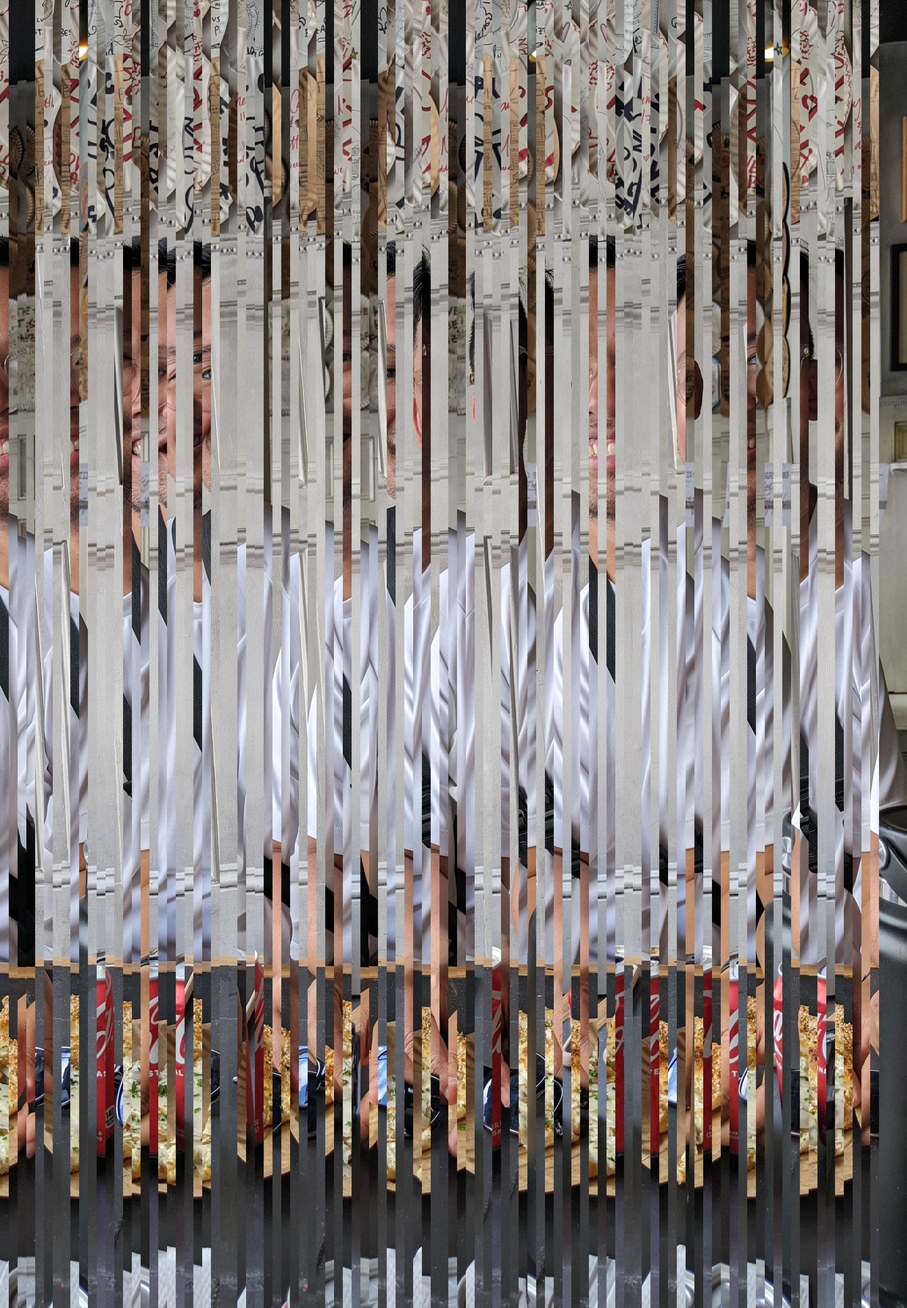
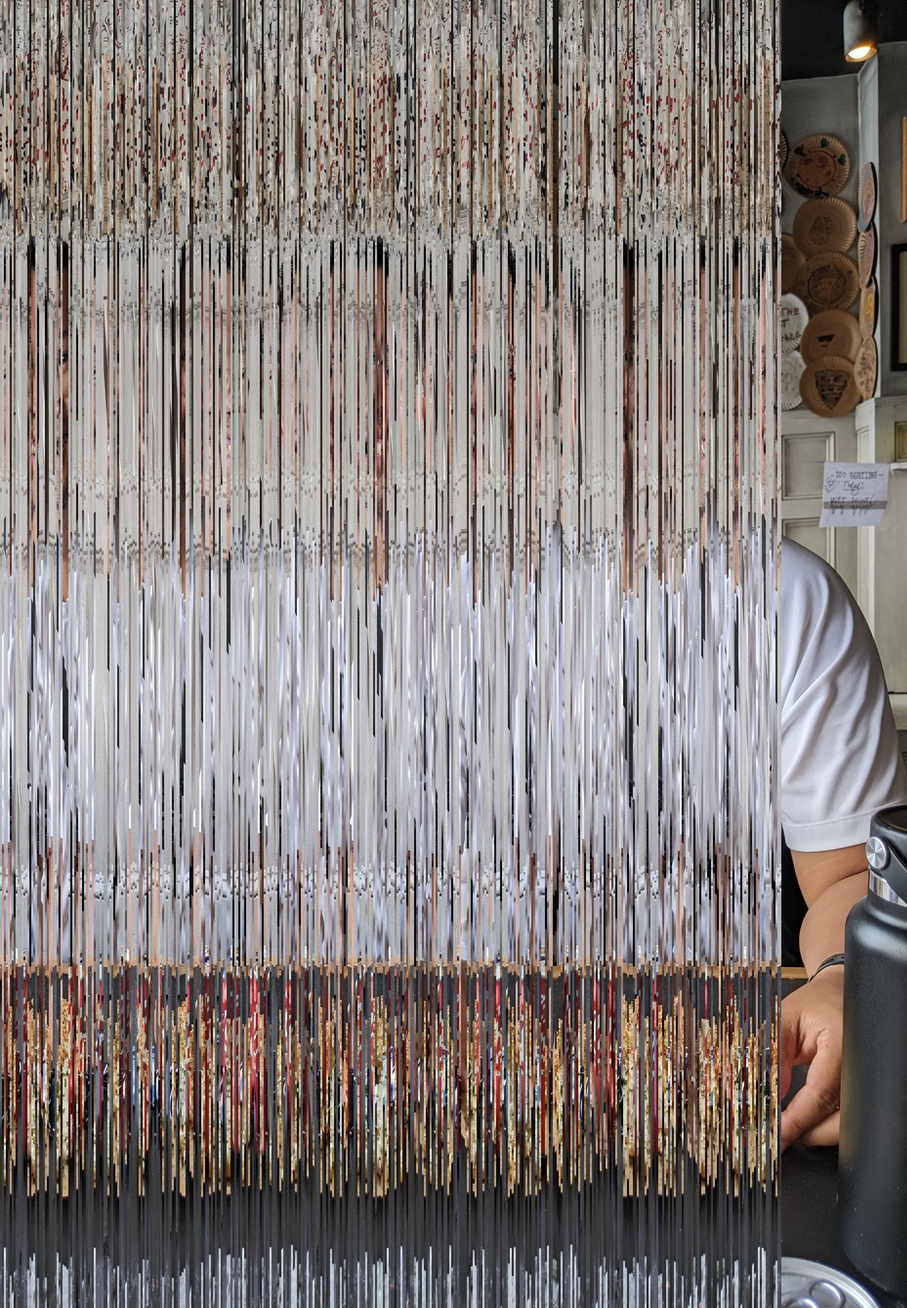
dhs

diff --git a/Images_Example.py b/Images_Example.py
@@ -79,7 +79,7 @@ def random3(im_name:str)->None:
         im.save('/Users/sl000268/Programming/SLSS-Programming-23-24/Images/random3.jpg')
 
 def scramble(im_name:str)->None:
-    rows,cols=100,1
+    rows,cols=1,400
     grid=[[(x,y) for x in range(cols)] for y in range(rows)]
     for y in range(rows):
         for x in range(cols):
@@ -98,4 +98,4 @@ def scramble(im_name:str)->None:
 def wiggle(im_name:str)->None:
     ...
 
-wiggle('best_pizza')
+scramble('best_pizza')
